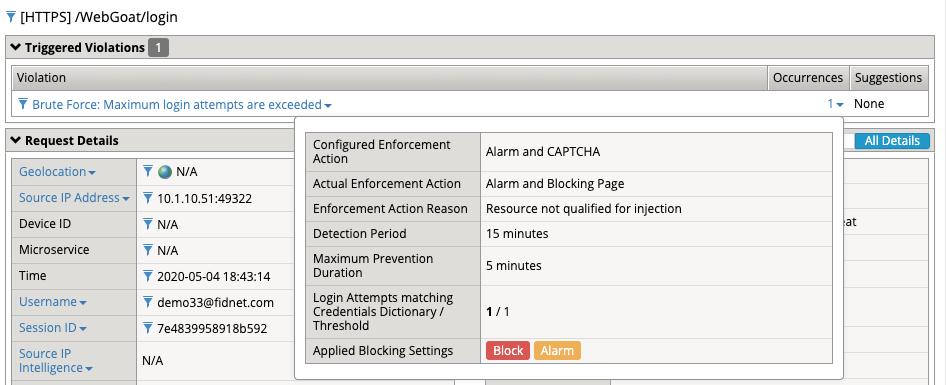
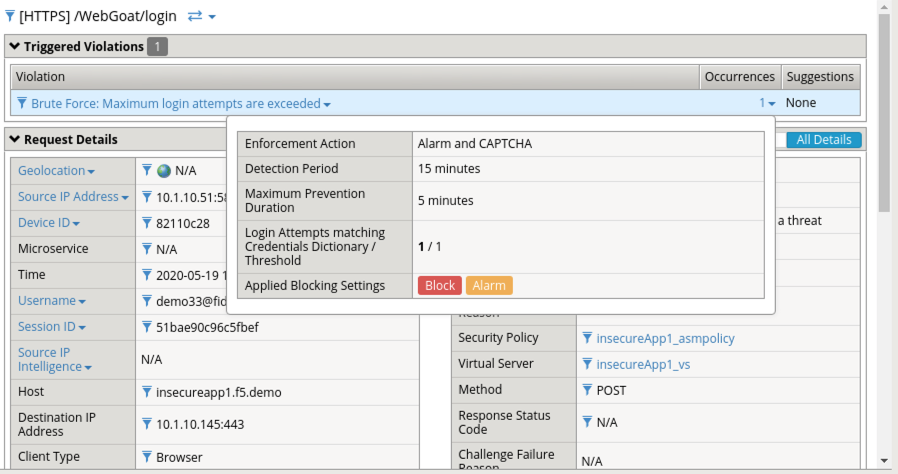
module1lab2

diff --git a/docs/class5/module1/lab2/lab2.rst b/docs/class5/module1/lab2/lab2.rst
@@ -45,16 +45,16 @@ Task 2 - Test Credential Stuffing Detection
 
 #.  Go to the to WebGoat login page at ``https://insecureapp1.f5.demo/WebGoat/login`` but **do not login as f5student** .
 
-#.  Attempt to login using the username ``demo33@fidnet.com`` and password ``mountainman01``.  On the second attempt, you should immediately be blocked because this username/password combination is present in the credential stuffing database.
+#.  Attempt to login using the username ``demo33@fidnet.com`` and password ``mountainman01``.  On the second attempt, you should receive a CAPTCHA because this configured mitigation for credentials matching the credential stuffing database.
 
 
-#.  Examine the most recent **Blocked** request in the event log:
+#.  Examine the most recent request in the event log:
 
     |lab2-1|
 
-    Take note of the username field.  The request was blocked as a brute force attack.
+    Take note of the username field.  The request was matched as a potential credential stuffing attack.
 
-#.  Click the **Brute force: Maximum Login Attempts are exceeded** header at the top of the event window:
+#.  Near the **Brute force: Maximum Login Attempts are exceeded** header at the top of the event window click on the number under **Occurrences**:
 
     |lab2-2|
 
